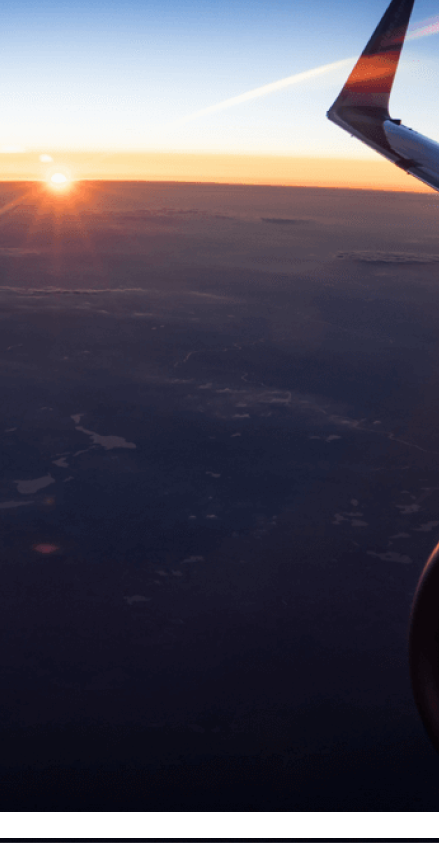
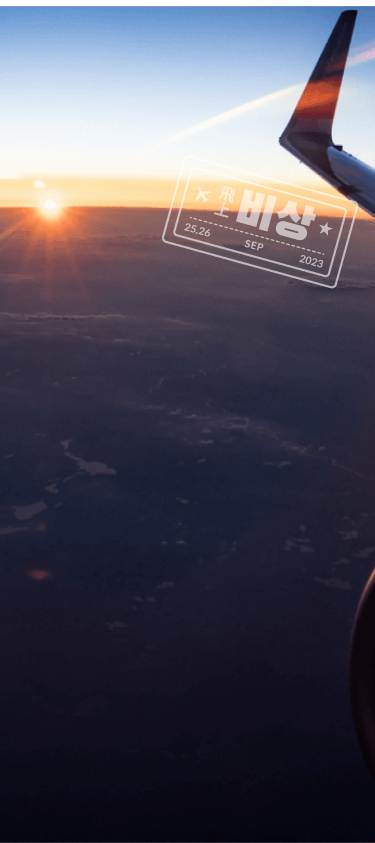
add the assets

diff --git a/frontend/src/components/presentation/MainPage/MainView.jsx b/frontend/src/components/presentation/MainPage/MainView.jsx
@@ -6,9 +6,6 @@ const MainView = () => {
     return (
         <div className='MainView_Container'>
             <div>
-                <img src={TextBox} alt='' />
-            </div>
-            <div>
                 <div>2023.9/25-26</div>
                 <div>DEAR FOR YOU</div>
                 <div>: 비상</div>

diff --git a/frontend/src/styles/components/MainPage/MainView.scss b/frontend/src/styles/components/MainPage/MainView.scss
@@ -2,9 +2,7 @@
     display: flex;
     flex-direction: column;
     width: 100%;
-    height: 100vh;
-
+    height : 90vh;
     background-image: url('../../../assets/MainBackground1.png');
     background-size: cover;
-
 }
